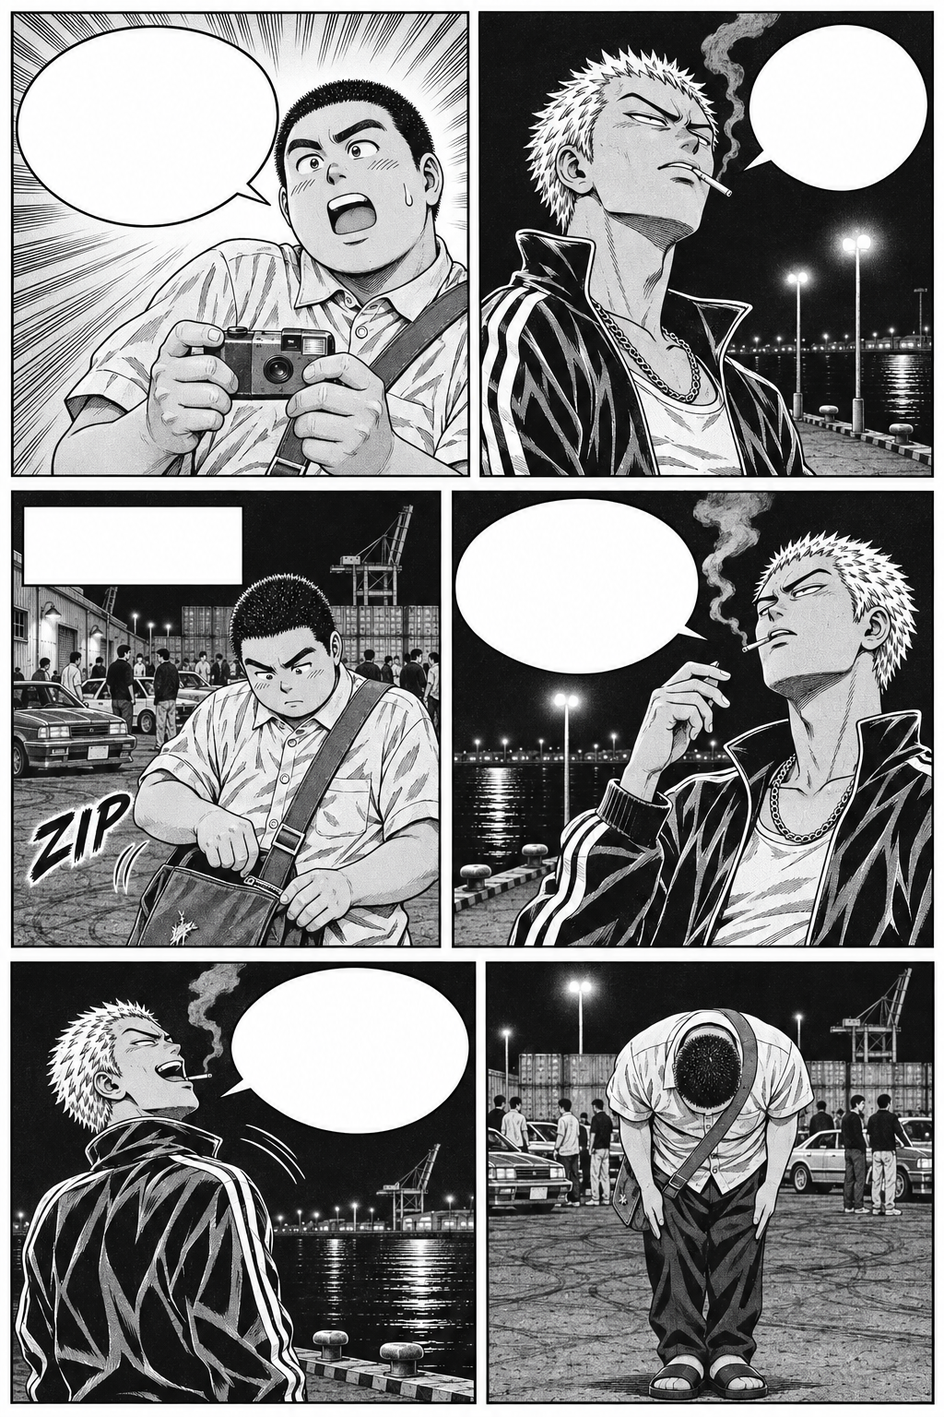
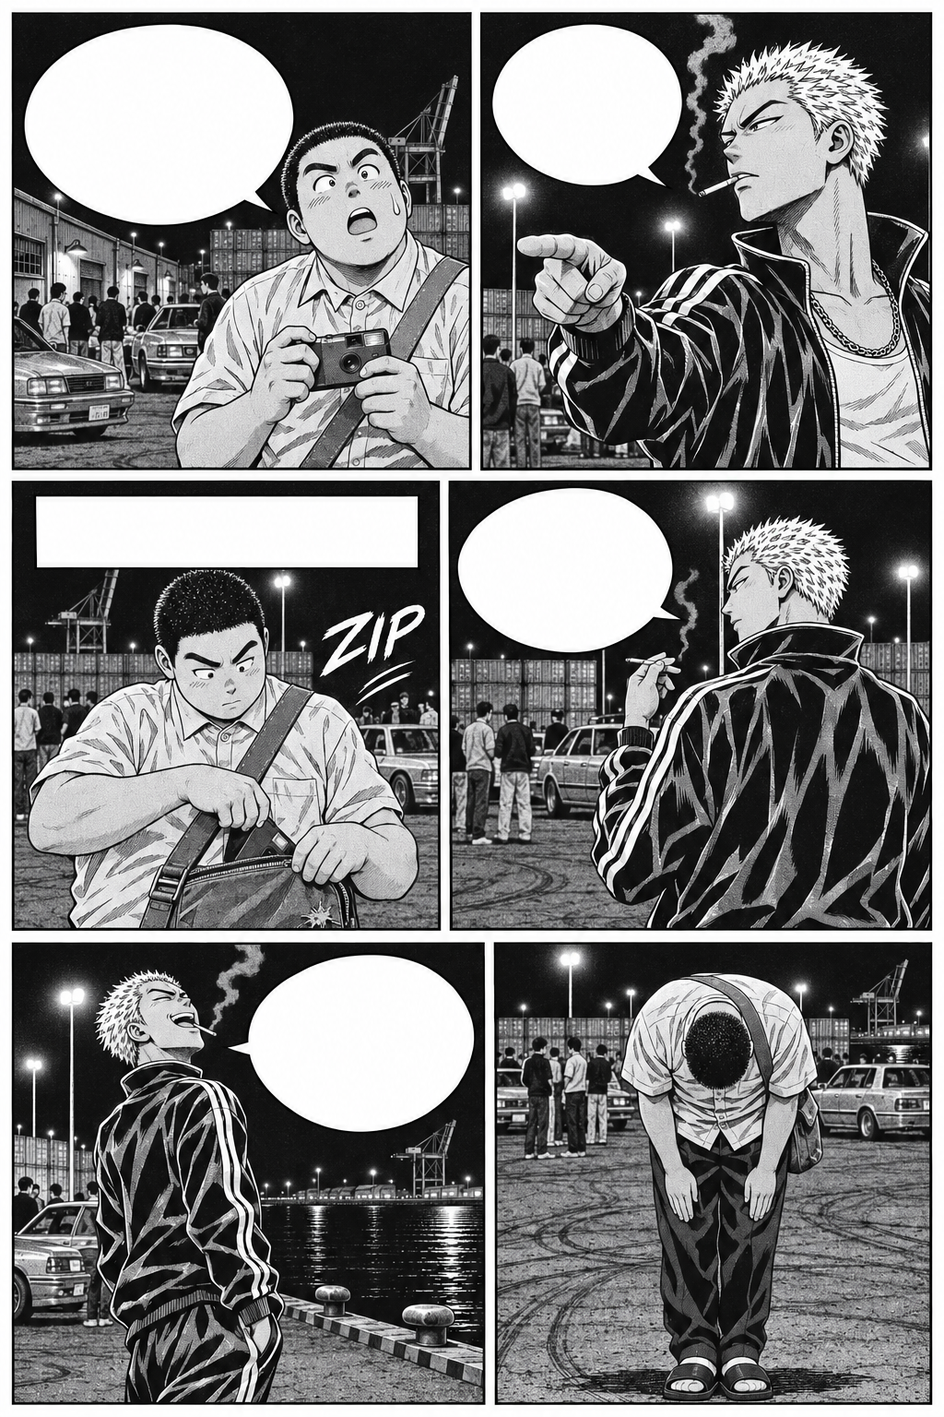
Finish Chapter 6: Pier 3

diff --git a/artwork/PROVENANCE.md b/artwork/PROVENANCE.md
@@ -153,39 +153,50 @@ Rows appended by `production/az run` (full prompts and refs: `production/logs/pr
 | car-sheets/starlet-p80.png | 2026-11-17 | none | generated, not reviewed | runner: 1 image_gen call(s) |
 | pages/chapter-006/page-02.png | 2026-11-17 | character-sheets/dai-uniform.png, character-sheets/nobu.png, character-sheets/dai.png, character-sheets/kubo.png, locations/harbor-station-night.png | generated, not reviewed | runner: 1 image_gen call(s), empty lettering; lettering incomplete: CHECK: 5/5 lines placed; panels found 5, spec 5 (per-panel mapping) |
 | pages/chapter-006/page-03.png | 2026-11-17 | character-sheets/kubo.png, character-sheets/dai-uniform.png, locations/harbor-station-night.png, pages/chapter-006/page-02.png | generated, not reviewed | runner: 1 image_gen call(s), empty lettering; lettering incomplete: CHECK: 5/5 lines placed; panels found 5, spec 5 (per-panel mapping) |
-| pages/chapter-006/page-03.png | 2026-11-17 | character-sheets/kubo.png, character-sheets/dai-uniform.png, locations/harbor-station-night.png, pages/chapter-006/page-02.png | generated, not reviewed | runner: 1 image_gen call(s), empty lettering; lettering incomplete: CHECK: 5/5 lines placed; panels found 5, spec 5 (per-panel mapping) |
+| pages/chapter-006/page-03.png | 2026-11-17 | character-sheets/kubo.png, character-sheets/dai-uniform.png, locations/harbor-station-night.png, pages/chapter-006/page-02.png | reviewed, final | runner: 1 image_gen call(s), empty lettering; lettering incomplete: CHECK: 5/5 lines placed; panels found 5, spec 5 (per-panel mapping) |
 | pages/chapter-006/page-04.png | 2026-11-17 | character-sheets/kubo.png, character-sheets/dai-uniform.png, locations/harbor-station-night.png, pages/chapter-006/page-03.png | generated, not reviewed | runner: 1 image_gen call(s), empty lettering; lettering incomplete: CHECK: 5/5 lines placed; panels found 5, spec 5 (per-panel mapping) |
 | pages/chapter-006/page-05.png | 2026-11-17 | character-sheets/kubo.png, character-sheets/dai.png, character-sheets/aya.png, locations/hayama-apartment.png, locations/harbor-station-night.png | generated, not reviewed | runner: 1 image_gen call(s), empty lettering; lettering incomplete: CHECK: 3/3 lines placed; panels found 4, spec 4 (per-panel mapping) |
-| pages/chapter-006/page-04.png | 2026-11-17 | character-sheets/kubo.png, character-sheets/dai-uniform.png, locations/harbor-station-night.png, pages/chapter-006/page-03.png | generated, not reviewed | runner: 1 image_gen call(s), empty lettering; lettering incomplete: CHECK: 5/5 lines placed; panels found 5, spec 5 (per-panel mapping) |
+| pages/chapter-006/page-04.png | 2026-11-17 | character-sheets/kubo.png, character-sheets/dai-uniform.png, locations/harbor-station-night.png, pages/chapter-006/page-03.png | reviewed, final | runner: 1 image_gen call(s), empty lettering; lettering incomplete: CHECK: 5/5 lines placed; panels found 5, spec 5 (per-panel mapping) |
 | pages/chapter-006/page-06.png | 2026-11-17 | character-sheets/aya.png, character-sheets/dai.png, locations/hayama-apartment.png, pages/chapter-006/page-05.png | generated, not reviewed | runner: 1 image_gen call(s), empty lettering; lettering incomplete: CHECK: 5/5 lines placed; panels found 5, spec 5 (per-panel mapping) |
 | pages/chapter-006/page-07.png | 2026-11-17 | character-sheets/dai.png, character-sheets/aya.png, locations/hayama-apartment.png, pages/chapter-006/page-06.png | generated, not reviewed | runner: 1 image_gen call(s), empty lettering; lettering incomplete: CHECK: 6/6 lines placed; panels found 6, spec 6 (per-panel mapping) |
-| pages/chapter-006/page-07.png | 2026-11-17 | character-sheets/dai.png, character-sheets/aya.png, locations/hayama-apartment.png, pages/chapter-006/page-06.png | generated, not reviewed | runner: 1 image_gen call(s), empty lettering; lettering incomplete: CHECK: 6/6 lines placed; panels found 6, spec 6 (per-panel mapping) |
+| pages/chapter-006/page-07.png | 2026-11-17 | character-sheets/dai.png, character-sheets/aya.png, locations/hayama-apartment.png, pages/chapter-006/page-06.png | reviewed, final | runner: 1 image_gen call(s), empty lettering; lettering incomplete: CHECK: 6/6 lines placed; panels found 6, spec 6 (per-panel mapping) |
 | pages/chapter-006/page-07.png | 2026-11-17 | character-sheets/dai.png, character-sheets/aya.png, locations/hayama-apartment.png, pages/chapter-006/page-05.png | generated, not reviewed | runner: 1 image_gen call(s), empty lettering; lettering incomplete: CHECK: 6/6 lines placed; panels found 6, spec 6 (per-panel mapping) |
-| pages/chapter-006/page-08.png | 2026-11-17 | character-sheets/dai.png, character-sheets/aya.png, locations/hayama-apartment.png, pages/chapter-006/page-07.png | generated, not reviewed | runner: 1 image_gen call(s), empty lettering |
+| pages/chapter-006/page-08.png | 2026-11-17 | character-sheets/dai.png, character-sheets/aya.png, locations/hayama-apartment.png, pages/chapter-006/page-07.png | reviewed, final | runner: 1 image_gen call(s), empty lettering |
 | pages/chapter-006/page-08.png | 2026-11-17 | character-sheets/dai.png, character-sheets/aya.png, locations/hayama-apartment.png, pages/chapter-006/page-05.png | generated, not reviewed | runner: 1 image_gen call(s), empty lettering; lettering incomplete: CHECK: 6/6 lines placed; panels found 6, spec 6 (per-panel mapping) |
-| pages/chapter-006/page-09.png | 2026-11-17 | character-sheets/dai.png, character-sheets/sota.png, locations/hayama-apartment.png, pages/chapter-006/page-08.png | generated, not reviewed | runner: 1 image_gen call(s), empty lettering; lettering incomplete: CHECK: 5/5 lines placed; panels found 5, spec 5 (per-panel mapping) |
-| pages/chapter-006/page-10.png | 2026-11-17 | character-sheets/sota.png, character-sheets/dai.png, locations/danchi-walkway.png | generated, not reviewed | runner: 1 image_gen call(s), empty lettering; lettering incomplete: CHECK: 3/3 lines placed; panels found 5, spec 5 (per-panel mapping) |
-| pages/chapter-006/page-09.png | 2026-11-17 | character-sheets/dai.png, character-sheets/sota.png, locations/hayama-apartment.png, pages/chapter-006/page-05.png | generated, not reviewed | runner: 1 image_gen call(s), empty lettering; lettering incomplete: CHECK: 5/5 lines placed; panels found 5, spec 5 (per-panel mapping) |
+| pages/chapter-006/page-09.png | 2026-11-17 | character-sheets/dai.png, character-sheets/sota.png, locations/hayama-apartment.png, pages/chapter-006/page-08.png | reviewed, final | runner: 1 image_gen call(s), empty lettering; lettering incomplete: CHECK: 5/5 lines placed; panels found 5, spec 5 (per-panel mapping) |
+| pages/chapter-006/page-10.png | 2026-11-17 | character-sheets/sota.png, character-sheets/dai.png, locations/danchi-walkway.png | reviewed, final | runner: 1 image_gen call(s), empty lettering; lettering incomplete: CHECK: 3/3 lines placed; panels found 5, spec 5 (per-panel mapping) |
+| pages/chapter-006/page-09.png | 2026-11-17 | character-sheets/dai.png, character-sheets/sota.png, locations/hayama-apartment.png, pages/chapter-006/page-05.png | reviewed, final | runner: 1 image_gen call(s), empty lettering; lettering incomplete: CHECK: 5/5 lines placed; panels found 5, spec 5 (per-panel mapping) |
 | pages/chapter-006/page-11.png | 2026-11-17 | character-sheets/nobu.png, character-sheets/dai.png, locations/harbor-road-night.png | generated, not reviewed | runner: 1 image_gen call(s), empty lettering |
 | pages/chapter-006/page-11.png | 2026-11-17 | character-sheets/nobu.png, character-sheets/dai.png, locations/harbor-road-night.png | generated, not reviewed | runner: 1 image_gen call(s), empty lettering |
 | pages/chapter-006/page-12.png | 2026-11-17 | character-sheets/dai.png, character-sheets/nobu.png, locations/harbor-road-night.png, pages/chapter-006/page-11.png | generated, not reviewed | runner: 1 image_gen call(s), empty lettering; lettering incomplete: CHECK: 4/4 lines placed; panels found 5, spec 5 (per-panel mapping) |
 | pages/chapter-006/page-12.png | 2026-11-17 | character-sheets/dai.png, character-sheets/nobu.png, locations/harbor-road-night.png | generated, not reviewed | runner: 1 image_gen call(s), empty lettering; lettering incomplete: CHECK: 4/4 lines placed; panels found 5, spec 5 (per-panel mapping) |
-| pages/chapter-006/page-13.png | 2026-11-17 | character-sheets/nobu.png, character-sheets/dai.png, locations/harbor-road-night.png, pages/chapter-006/page-12.png | generated, not reviewed | runner: 1 image_gen call(s), empty lettering; lettering incomplete: CHECK: 5/5 lines placed; panels found 6, spec 6 (per-panel mapping) |
+| pages/chapter-006/page-13.png | 2026-11-17 | character-sheets/nobu.png, character-sheets/dai.png, locations/harbor-road-night.png, pages/chapter-006/page-12.png | reviewed, final | runner: 1 image_gen call(s), empty lettering; lettering incomplete: CHECK: 5/5 lines placed; panels found 6, spec 6 (per-panel mapping) |
 | pages/chapter-006/page-14.png | 2026-11-17 | character-sheets/dai.png, character-sheets/nobu.png, locations/harbor-road-night.png | generated, not reviewed | runner: 1 image_gen call(s), empty lettering; lettering incomplete: CHECK: 3/3 lines placed; panels found 4, spec 4 (per-panel mapping) |
-| pages/chapter-006/page-13.png | 2026-11-17 | character-sheets/nobu.png, character-sheets/dai.png, locations/harbor-road-night.png, pages/chapter-006/page-11.png | generated, not reviewed | runner: 1 image_gen call(s), empty lettering; lettering incomplete: CHECK: 5/5 lines placed; panels found 6, spec 6 (per-panel mapping) |
+| pages/chapter-006/page-13.png | 2026-11-17 | character-sheets/nobu.png, character-sheets/dai.png, locations/harbor-road-night.png, pages/chapter-006/page-11.png | reviewed, final | runner: 1 image_gen call(s), empty lettering; lettering incomplete: CHECK: 5/5 lines placed; panels found 6, spec 6 (per-panel mapping) |
 | pages/chapter-006/page-15.png | 2026-11-17 | character-sheets/nobu.png, character-sheets/dai.png, locations/harbor-road-night.png, pages/chapter-006/page-14.png | generated, not reviewed | runner: 1 image_gen call(s), empty lettering; lettering incomplete: CHECK: 2/2 lines placed; panels found 5, spec 5 (per-panel mapping) |
-| pages/chapter-006/page-16.png | 2026-11-17 | character-sheets/dai.png, character-sheets/nobu.png, locations/harbor-road-night.png, pages/chapter-006/page-15.png | generated, not reviewed | runner: 1 image_gen call(s), empty lettering; lettering incomplete: CHECK: 5/5 lines placed; panels found 5, spec 5 (per-panel mapping) |
-| pages/chapter-006/page-17.png | 2026-11-17 | character-sheets/dai.png, character-sheets/nobu.png, locations/pier-3-night.png | generated, not reviewed | runner: 1 image_gen call(s), empty lettering; lettering incomplete: CHECK: 4/4 lines placed; panels found 4, spec 4 (per-panel mapping) |
-| pages/chapter-006/page-16.png | 2026-11-17 | character-sheets/dai.png, character-sheets/nobu.png, locations/harbor-road-night.png, pages/chapter-006/page-14.png | generated, not reviewed | runner: 1 image_gen call(s), empty lettering; lettering incomplete: CHECK: 5/5 lines placed; panels found 5, spec 5 (per-panel mapping) |
-| pages/chapter-006/page-18.png | 2026-11-17 | car-sheets/skyline-rx7-crops.png, car-sheets/cefiro-a31-view.png, car-sheets/supra-a80-view.png, car-sheets/starlet-p80-view.png, locations/pier-3-night.png | generated, not reviewed | runner: 1 image_gen call(s), empty lettering; lettering incomplete: CHECK: 2/2 lines placed; panels found 5, spec 5 (per-panel mapping) |
+| pages/chapter-006/page-16.png | 2026-11-17 | character-sheets/dai.png, character-sheets/nobu.png, locations/harbor-road-night.png, pages/chapter-006/page-15.png | reviewed, final | runner: 1 image_gen call(s), empty lettering; lettering incomplete: CHECK: 5/5 lines placed; panels found 5, spec 5 (per-panel mapping) |
+| pages/chapter-006/page-17.png | 2026-11-17 | character-sheets/dai.png, character-sheets/nobu.png, locations/pier-3-night.png | reviewed, final | runner: 1 image_gen call(s), empty lettering; lettering incomplete: CHECK: 4/4 lines placed; panels found 4, spec 4 (per-panel mapping) |
+| pages/chapter-006/page-16.png | 2026-11-17 | character-sheets/dai.png, character-sheets/nobu.png, locations/harbor-road-night.png, pages/chapter-006/page-14.png | reviewed, final | runner: 1 image_gen call(s), empty lettering; lettering incomplete: CHECK: 5/5 lines placed; panels found 5, spec 5 (per-panel mapping) |
+| pages/chapter-006/page-18.png | 2026-11-17 | car-sheets/skyline-rx7-crops.png, car-sheets/cefiro-a31-view.png, car-sheets/supra-a80-view.png, car-sheets/starlet-p80-view.png, locations/pier-3-night.png | reviewed, final | runner: 1 image_gen call(s), empty lettering; lettering incomplete: CHECK: 2/2 lines placed; panels found 5, spec 5 (per-panel mapping) |
 | pages/chapter-006/page-19.png | 2026-11-17 | character-sheets/dai.png, character-sheets/nobu.png, locations/pier-3-night.png | generated, not reviewed | runner: 1 image_gen call(s), empty lettering; lettering incomplete: CHECK: 5/5 lines placed; panels found 5, spec 5 (per-panel mapping) |
 | pages/chapter-006/page-20.png | 2026-11-17 | character-sheets/nobu.png, character-sheets/okabe.png, locations/pier-3-night.png | generated, not reviewed | runner: 1 image_gen call(s), empty lettering; lettering incomplete: CHECK: 3/3 lines placed; panels found 6, spec 6 (per-panel mapping) |
-| pages/chapter-006/page-19.png | 2026-11-17 | character-sheets/dai.png, character-sheets/nobu.png, locations/pier-3-night.png | generated, not reviewed | runner: 1 image_gen call(s), empty lettering; lettering incomplete: CHECK: 5/5 lines placed; panels found 5, spec 5 (per-panel mapping) |
-| pages/chapter-006/page-21.png | 2026-11-17 | character-sheets/okabe.png, character-sheets/dai.png, character-sheets/nobu.png, locations/pier-3-night.png, pages/chapter-006/page-20.png | generated, not reviewed | runner: 1 image_gen call(s), empty lettering; lettering incomplete: CHECK: 5/5 lines placed; panels found 5, spec 5 (per-panel mapping) |
-| pages/chapter-006/page-22.png | 2026-11-17 | character-sheets/dai.png, car-sheets/silvia-s13-front34.png, locations/pier-3-night.png | generated, not reviewed | runner: 1 image_gen call(s), empty lettering; lettering incomplete: CHECK: 4/4 lines placed; panels found 5, spec 5 (per-panel mapping) |
+| pages/chapter-006/page-19.png | 2026-11-17 | character-sheets/dai.png, character-sheets/nobu.png, locations/pier-3-night.png | reviewed, final | runner: 1 image_gen call(s), empty lettering; lettering incomplete: CHECK: 5/5 lines placed; panels found 5, spec 5 (per-panel mapping) |
+| pages/chapter-006/page-21.png | 2026-11-17 | character-sheets/okabe.png, character-sheets/dai.png, character-sheets/nobu.png, locations/pier-3-night.png, pages/chapter-006/page-20.png | reviewed, final | runner: 1 image_gen call(s), empty lettering; lettering incomplete: CHECK: 5/5 lines placed; panels found 5, spec 5 (per-panel mapping) |
+| pages/chapter-006/page-22.png | 2026-11-17 | character-sheets/dai.png, car-sheets/silvia-s13-front34.png, locations/pier-3-night.png | reviewed, final | runner: 1 image_gen call(s), empty lettering; lettering incomplete: CHECK: 4/4 lines placed; panels found 5, spec 5 (per-panel mapping) |
 | pages/chapter-006/page-23.png | 2026-11-17 | character-sheets/goto.png, character-sheets/dai.png, character-sheets/nobu.png, locations/pier-3-night.png | generated, not reviewed | runner: 1 image_gen call(s), empty lettering; lettering incomplete: CHECK: 5/5 lines placed; panels found 5, spec 5 (per-panel mapping) |
 | pages/chapter-006/page-24.png | 2026-11-17 | character-sheets/dai.png, character-sheets/goto.png, character-sheets/nobu.png, locations/pier-3-night.png, pages/chapter-006/page-23.png | reviewed individually; chapter continuity pending | runner: 1 image_gen call(s), empty lettering |
-| pages/chapter-006/page-24.png | 2026-11-17 | character-sheets/dai.png, character-sheets/goto.png, character-sheets/nobu.png, locations/pier-3-night.png, pages/chapter-006/page-23.png | reviewed individually; chapter continuity pending | runner: 1 image_gen call(s), empty lettering; lettering incomplete: CHECK: 5/5 lines placed; panels found 6, spec 6 (per-panel mapping) |
+| pages/chapter-006/page-24.png | 2026-11-17 | character-sheets/dai.png, character-sheets/goto.png, character-sheets/nobu.png, locations/pier-3-night.png, pages/chapter-006/page-23.png | reviewed, final | runner: 1 image_gen call(s), empty lettering; lettering incomplete: CHECK: 5/5 lines placed; panels found 6, spec 6 (per-panel mapping) |
 | pages/chapter-006/page-26.png | 2026-11-17 | car-sheets/chaser-x90-view.png, character-sheets/nobu.png, character-sheets/dai.png, character-sheets/okabe.png, locations/pier-3-night.png | reviewed individually; chapter continuity pending | runner: 1 image_gen call(s), empty lettering; lettering incomplete: CHECK: 6/6 lines placed; panels found 6, spec 6 (per-panel mapping) |
 | pages/chapter-006/page-25.png | 2026-11-17 | character-sheets/goto.png, character-sheets/nobu.png, locations/pier-3-night.png, pages/chapter-006/page-24.png | draft; redraw needed for repeated poses | runner: 1 image_gen call(s), empty lettering; lettering incomplete: CHECK: 4/4 lines placed; panels found 6, spec 6 (per-panel mapping) |
 | pages/chapter-006/page-27.png | 2026-11-17 | character-sheets/okabe.png, character-sheets/dai.png, character-sheets/nobu.png, locations/pier-3-night.png, pages/chapter-006/page-26.png | draft; redraw needed for repeated poses | runner: 1 image_gen call(s), empty lettering; lettering incomplete: CHECK: 5/5 lines placed; panels found 5, spec 5 (per-panel mapping) |
+| pages/chapter-006/page-25.png | 2026-11-17 | character-sheets/goto.png, character-sheets/nobu.png, locations/pier-3-night.png, pages/chapter-006/page-24.png | reviewed, final | runner: 1 image_gen call(s), empty lettering; lettering incomplete: CHECK: 5/5 lines placed; panels found 6, spec 6 (per-panel mapping) |
+| pages/chapter-006/page-27.png | 2026-11-17 | character-sheets/okabe.png, character-sheets/nobu.png, character-sheets/dai.png, locations/pier-3-night.png, pages/chapter-006/page-26.png | reviewed, final | runner: 1 image_gen call(s), empty lettering; lettering incomplete: CHECK: 5/5 lines placed; panels found 5, spec 5 (per-panel mapping) |
+| pages/chapter-006/page-28.png | 2026-11-17 | car-sheets/chaser-x90-view.png, character-sheets/goto.png, locations/pier-3-night.png, pages/chapter-006/page-27.png | generated, not reviewed | runner: 1 image_gen call(s), empty lettering |
+| pages/chapter-006/page-29.png | 2026-11-17 | character-sheets/okabe.png, character-sheets/nobu.png, character-sheets/dai.png, locations/pier-3-night.png, pages/chapter-006/page-28.png | generated, not reviewed | runner: 1 image_gen call(s), empty lettering; lettering incomplete: CHECK: 6/6 lines placed; panels found 7, spec 7 (per-panel mapping) |
+| pages/chapter-006/page-30.png | 2026-11-17 | car-sheets/silvia-s13-rear.png, car-sheets/chaser-x90-view.png, character-sheets/dai.png, character-sheets/nobu.png, locations/pier-3-night.png | generated, not reviewed | runner: 1 image_gen call(s), empty lettering; lettering incomplete: CHECK: 5/5 lines placed; panels found 5, spec 5 (per-panel mapping) |
+| pages/chapter-006/page-29.png | 2026-11-17 | character-sheets/okabe.png, character-sheets/nobu.png, character-sheets/dai.png, locations/pier-3-night.png, pages/chapter-006/page-28.png | generated, not reviewed | runner: 1 image_gen call(s), empty lettering; lettering incomplete: CHECK: 6/6 lines placed; panels found 7, spec 7 (per-panel mapping) |
+| pages/chapter-006/page-30.png | 2026-11-17 | car-sheets/silvia-s13-rear.png, car-sheets/chaser-x90-view.png, character-sheets/dai.png, character-sheets/nobu.png, locations/pier-3-night.png | reviewed, final | runner: 1 image_gen call(s), empty lettering; lettering incomplete: CHECK: 5/5 lines placed; panels found 5, spec 5 (per-panel mapping) |
+| pages/chapter-006/page-27.png | 2026-11-17 | character-sheets/okabe.png, character-sheets/nobu.png, character-sheets/dai.png, locations/pier-3-night.png, pages/chapter-006/page-20.png | reviewed, final | runner: 1 image_gen call(s), empty lettering; lettering incomplete: CHECK: 5/5 lines placed; panels found 5, spec 5 (per-panel mapping) |
+| pages/chapter-006/page-29.png | 2026-11-17 | character-sheets/okabe.png, character-sheets/nobu.png, character-sheets/dai.png, locations/pier-3-night.png, pages/chapter-006/page-28.png | reviewed, final | runner: 1 image_gen call(s), empty lettering |
+
+Chapter 006 review: final selected pages inspected individually and as consecutive pairs; see `reviews/chapter-006.md` for lettering, redraws, and retained nits. The first vehicle-sheet attempts included figures; vehicle-only crops were used as references.

diff --git a/reviews/chapter-006.md b/reviews/chapter-006.md
@@ -1,11 +1,22 @@
-# Chapter 6 review (in progress)
+# Chapter 6 review
 
-Script: `scripts/chapter-006.md`, 30 pages through the starter lowering the flashlight, immediately before the Silvia launches. Spec: `production/chapter-006.yaml`. No build yet.
+Build: `./tools-build.sh 006` -> `build/akai-zanzo-ch006.{cbz,pdf}` (30 pages). The PDF was copied to `~/Dokumente/Akai Zanzō/Manga/Ch 06 - Pier 3.pdf` and checked against the build by SHA-256.
+Script: `scripts/chapter-006.md`. Spec: `production/chapter-006.yaml`. The split ends with the starter lowering the flashlight, before the Silvia launches; Chapter 7 begins with the race.
 
-Pages 01-24 and 26 have been drawn and inspected individually. Pages 25 and 27 have first takes, but need redraws for repeated portraits before approval. Pages 28-30 have not been drawn. On 17 November the page 25 and 27 redraw jobs returned `usage_limit_reached`; their `stderr.txt` reported reset at 14:53:41 CET. No further image jobs were launched.
+Production log records 56 completed image calls across the chapter, new references and redraws. It excludes failed calls that produced no image. Pages were checked individually and every consecutive pair was compared with overlapping contact sheets, including the redrawn pairs. The final overview sheets are in `production/runs/contact-chapter-006-final/overview-{01-10,11-20,21-30}.jpg`.
 
-Earlier redraws: p03, p04, p07 (three takes), p08, p09, p11, p12, p13, p16 and p19. Reasons were repeated portraits, covered faces, a wrongly named magazine, or Dai incorrectly holding beer cans. Page 24 was redrawn for repeated portraits. Captions and balloons on several pages were hand placed; stray captions on p01, p15 and p25 were filled from the novel. Page 25's large balloon was repositioned off Nobu's face.
+## Redrawn or edited
+- p03, p04, p07 (three takes), p08, p09, p11, p13, p16, p24, p25, p27 (three takes), and p29 (three takes): repeated portraits or framing; p25 also had a blank caption and a balloon over Nobu's face.
+- p12: wrong magazine title and ambiguous camera. p19: Dai incorrectly held six beer cans. p29: bookmaker was drawn as the customer. p30: first take pointed the cars at a dead end; the second points them down the open road and puts the boys standing on bollards.
+- Manual caption and balloon placement on p01, p02, p08, p12, p13, p14, p15, p21 and p25. Stray empty captions on p01, p15 and p25 were filled with source-based lines. Most lettering is 20 px or larger; p02 and p12 each have a 19 px line.
 
-Remaining: redraw p25 and p27 (at most two more generated takes each), draw p28-30, inspect each and all adjacent page pairs for continuity and car poses, fix lettering and hard failures within the three-try limit, build and copy the PDF, then complete this review. Pages 1-23 were inspected during drawing, but the full chapter-wide comparison has not yet been completed.
+## Checks
+- Reviewed the pages in reading order and checked speaker tails, story beats and transitions. Page 30 ends with the flashlight falling; no launch is shown.
+- The Silvia on p22 has fixed headlights, wing and black wheels. Its exterior arrival and the p30 rear start view have different angles. The Chaser on p26 is viewed from the rear three-quarter; p28 is a close crop and p30 is a rear start view. No same full-car pose was intentionally repeated. The p18 Starlet is only shown in a window crop, insufficient to verify its exact EP82 body shape.
+- The lot plate is empty of people and cars; meet pages populate it. No red Roadster appears. The camera remains on the same general side across the apartment and harbor conversations, with shot variation.
 
-Known nits: p04 Kubo's hose resembles a fuel nozzle; p09 and p10 differ on whether Sota wears his glasses in bed; p10 has an unscripted door sound and shiny pavement; p11 places the ramen shop on an industrial-looking road; p12's long line is 19 px; p17 has an unscripted WHOOSH; p25's camera resembles a compact camera and repeated Goto portraits still need correction. The first vehicle-sheet jobs used the character-sheet template and produced unwanted figures; the retained reference sheets were cropped to vehicle-only portions. The Starlet sheet should be checked for EP82 accuracy before approving p18. No PDF has been built.
+## Kept nits
+- p04: Kubo's hose resembles a fuel nozzle. p09-p10: Sota's glasses move from beside him to his face. p10 has unscripted CLACK and shiny pavement. p11's ramen shop looks industrial. p17 has an unscripted WHOOSH.
+- p12 and p25: the disposable camera resembles a generic compact camera. p18: exact Starlet model is not identifiable from its window crop; its generated sheet has questionable EP82 details.
+- p27 and p29 retain similar back views of Dai and Nobu after each reached the three-take limit. p28's driver has a rounder face than his more distant appearance on p26. Some grown balloons leave a faint double outline.
+- p30 has unscripted CLICK and WHIP sound effects. The staging and the lowered flashlight remain clear.
